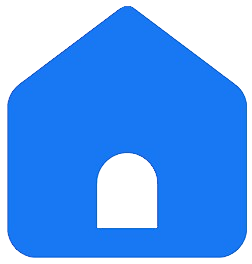
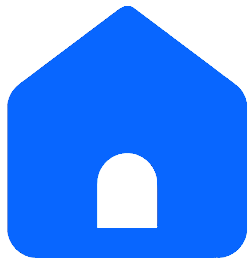
Header Adjustments

diff --git a/Facebook Clone/css-files/header.css b/Facebook Clone/css-files/header.css
@@ -7,7 +7,7 @@
   left: 0;
   right: 0;
   box-shadow: 0px 1px 5px 1px rgba(0, 0, 0, 0.076);
-  background-color: rgb(248, 248, 248);
+  background-color: white;
 }
 
 .leftCont{
@@ -24,27 +24,28 @@
 
 .searchButton{
   display: none;
+  font-family: 'Segoe UI', Tahoma, Geneva, Verdana, sans-serif;
 }
 
 @media (min-width: 1240px){
   .searchButton{
-  display: block;
-  height: 40px;
-  width: 240px;
-  padding-left: 35px;
-  font-size: 15px;
-  background-color: rgb(235, 235, 235);
-  border: none;
-  border-radius: 20px;
-  margin-left: -40px;
-}
+    display: block;
+    height: 40px;
+    width: 240px;
+    padding-left: 35px;
+    font-size: 15px;
+    background-color: rgb(240, 242, 245);
+    border: none;
+    border-radius: 20px;
+    margin-left: -38px;
+  }
 }
 
 .searchIconCont{
   height: 40px;
   width: 40px;
   border-radius: 50%;
-  background-color: rgb(235, 235, 235);
+  background-color: rgb(240, 242, 245);
   display: flex;
   justify-content: center;
   align-items: center;
@@ -61,20 +62,20 @@
   display: flex;
   justify-content: space-between;
   align-items: center;
-  gap: 8px;
+  gap: 13px;
 }
 
 .homeCont, .friendsCont, .reelsCont, .gamesCont{
-  height: 54px;
-  width: 112px;
+  height: 53px;
+  width: 125px;
   display: flex;
   justify-content: center;
   align-items: center;
 }
 
 .homeIcon{
-  height: 25px;
-  width: 25px;
+  height: 23px;
+  width: 23px;
 }
 
 .friendsIcon{
@@ -83,8 +84,8 @@
 }
 
 .reelsIcon{
-  height: 23px;
-  width: 23px;
+  height: 28px;
+  width: 28px;
 }
 
 .gamesIcon{
@@ -95,18 +96,18 @@
 .homeCont{
   border-bottom: solid;
   border-bottom-width: 3px;
-  border-color: #1466d2;
+  border-color: rgb(8, 102, 225);
 }
 
 .rightCont{
   width: 300px;
   height: 40px;
-  padding: 8px 15px 8px 0px;
+  padding: 8px 16px 8px 0px;
   display: flex;
-  gap: 10px;
+  gap: 8px;
   justify-content: right;
   justify-items: center;
-  align-items: center;
+  align-items: middle;
 }
 
 .rightIconsCont{
@@ -119,7 +120,17 @@
   align-items: center;
 }
 
-.menuIcon, .messengerIcon, .notifIcon{
+.menuIcon{
+  height: 18px;
+  width: 18px;
+}
+
+.messengerIcon{
+  height: 20px;
+  width: 20px;
+}
+
+.notifIcon{
   height: 20px;
   width: 20px;
 }
@@ -142,8 +153,8 @@
   justify-content: center;
   align-items: center;
   background-color: rgb(229, 229, 229);
-  bottom: 0;
-  right: 0;
+  bottom: -2px;
+  right: -2px;
   border-radius: 50%;
   border: 2px solid rgb(248, 248, 248);
 }

diff --git a/Facebook Clone/css-files/general.css b/Facebook Clone/css-files/general.css
@@ -2,5 +2,9 @@ body{
   height: 3000px;
   margin: 0;
   padding: 0;
-  background-color: rgb(239, 239, 239);
+  background-color: rgb(242, 242, 247);
+}
+
+p{
+  font-family: 'Segoe UI', Tahoma, Geneva, Verdana, sans-serif;
 }
